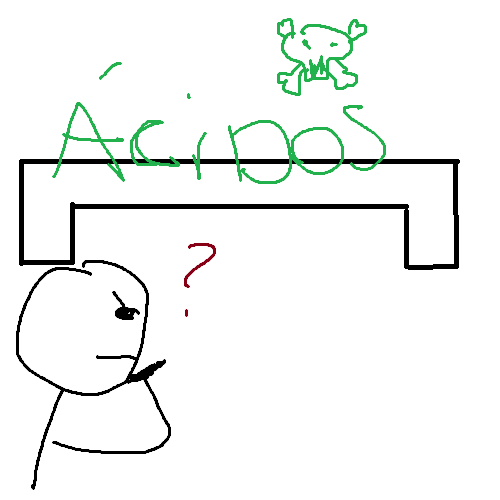
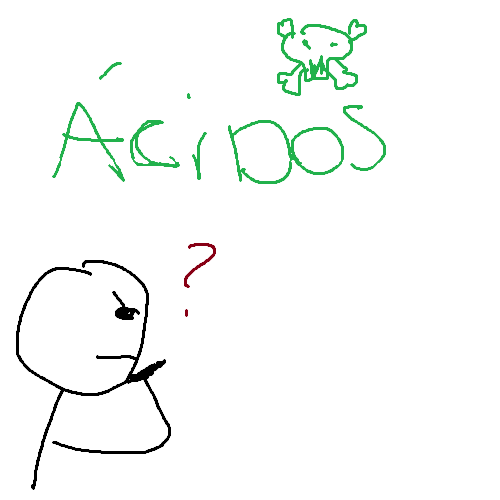
mudando a imagem da 3 questao

Changed region(s): [[0.03, 0.3, 0.93, 0.54]]

diff --git a/assets/css/home.css b/assets/css/home.css
@@ -104,3 +104,4 @@
     padding: 14px 24px;
   }
 }
+

diff --git a/finish.php b/finish.php
@@ -1,0 +1,38 @@
+<?php session_start()?>
+<!DOCTYPE html>
+<html lang="pt-BR">
+<head>
+    <meta charset="UTF-8">
+    <meta name="viewport" content="width=device-width, initial-scale=1.0">
+    <title>Fail - Preview</title>
+
+    <link
+        href="https://cdn.jsdelivr.net/npm/bootstrap@5.3.3/dist/css/bootstrap.min.css"
+        rel="stylesheet"
+    >
+    <link rel="stylesheet" href="assets/css/style.css">
+    <link rel="stylesheet" href="assets/css/home.css">
+</head>
+<body>
+
+<main class="home-page">
+    <div class="home-content">
+        <h1 class="home-title">Química <span class="highlight">Quiz</span></h1>
+        <p class="home-subtitle">Você ganhou, completou todo o nosso quiz!</p>
+        
+        <form action="" method="post">
+            <button type="submit"class="play-button">Tentar de Novo</button>
+        </form>
+    </div>
+</main>
+
+<script src="https://cdn.jsdelivr.net/npm/bootstrap@5.3.3/dist/js/bootstrap.bundle.min.js"></script>
+
+</body>
+</html>
+
+<?php
+
+if($_SERVER['REQUEST_METHOD'] == "POST")
+    header("Location: home.php");
+?>
